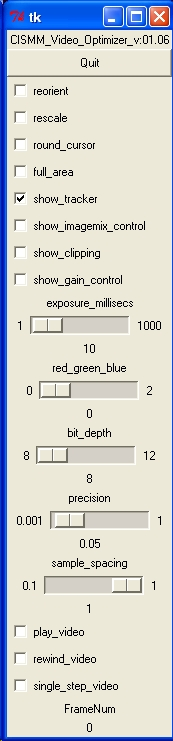
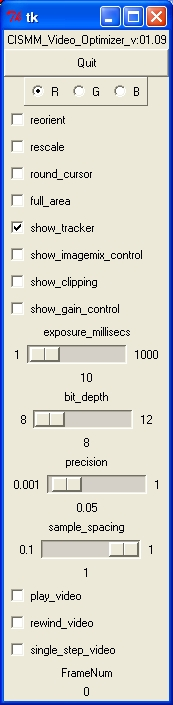
2005-12-12  Russell M. Taylor II  <taylorr@cs.unc.edu>
* video_spot_tracker.cpp : Turned the RGB slider into a set of
		radiobuttons, moved the description of them into the
		Tcl file.
	* video_spot_tracker.tcl : Same.
	* cismm_video_optimizer.cpp : Same.
	* cismm_video_optimizer.tcl : Same.

diff --git a/video_spot_tracker/video_spot_tracker.html b/video_spot_tracker/video_spot_tracker.html
@@ -28,13 +28,18 @@
 
 <p><b><i>NOTE:</i></b> With Windows XP service pack 2 and with other firewall software, running the program causes a dialog box to appear asking whether to block the program; the program needs to be unblocked only if the program is to be connected to a local or remote feedback system that relies on the tracking data. This happens when the program opens the Internet port assigned to it (3883) by the Internet Domain Naming Authority to export the data through the standard VRPN protocol (<a href="http://www.vrpn.org">www.vrpn.org</a>).</p> 
 
-<h2><img src="GUI.jpg" width="161" height="806" align="right">Using the program</h2>
+<h2><img src="GUI.jpg" width="161" height="770" align="right">Using the program</h2>
 
 <p>When the program is run and a file is selected, four windows will appear. The image window that appears on the lower right contains the first image within the video file or a continually-updating image from a live camera feed. The control panel named <b><i>tk</i></b> that appears on the left when the program is run (shown here to the right) contains a number of interaction widgets that control the operation of the program. The <b><i>kernel</i></b> control panel that appears above the image window (described later) controls the type of tracking kernel being used. The <b><i>log</i></b> control panel is described later.</p>
 
 <h3>Selecting the color channel to use</h3>
 
-<p><img src="red_green_blue.jpg" width="156" height="60" align="left">If the video file (or video camera) contains different data sets in the red, green, and blue channels then you will need to select the one you want to view. By default, the red channel (channel 0) is selected. To select a different channel, click on the &quot;0&quot; beneath the <i><b>red_green_blue </b></i>slider and type its number into the dialog box that appears. Enter 1 for green and 2 for blue.  The video window should change to display the selected channel.</p>
+<p>If the video file (or video camera) contains different data sets in the red, 
+  green, and blue channels then you will need to select the one you want to view. 
+  By default, the red channel <i><b>R</b></i> is selected. To select a different 
+  channel, click on <i><b>G</b></i> for green or <i><b>B</b></i> for blue. The 
+  video window should change to display the selected channel.</p>
+<h3></h3>
 
 <h3>Selecting the Image bit depth</h3>
 

diff --git a/cismm_video_optimizer/cismm_video_optimizer.html b/cismm_video_optimizer/cismm_video_optimizer.html
@@ -20,13 +20,17 @@
 
 <p>The program is run by dragging a video file or image file onto the desktop icon that was created when the program was installed. To select a stack of image files that are numbered consecutively, drag any one of the files onto the icon.  It can also be run by selecting one of the camera-specific shortcuts from <i><b>Start Menu/All Programs/NSRG/CISMM Video Optimizer v01.09</b></i>. If you run the program directly by double-clicking on the icon, it will ask for a video or image file (AVI, TIF, or BMP) that it should open.</p> 
 
-<h2><img src="GUI.jpg" width="173" height="741" align="right">Using the program</h2>
+<h2><img src="GUI.jpg" width="173" height="705" align="right">Using the program</h2>
 
 <p>When the program is run and a file is selected, four windows will appear. The image window that appears on the lower right contains the first image within the video file or a continually-updating image from a live camera feed. The control panel named <b><i>tk</i></b> that appears on the left when the program is run (shown here to the right) contains a number of interaction widgets that control the operation of the program. The <b><i>kernel</i></b> control panel that appears above the image window (described later) controls the type of tracking kernel being used. The <b><i>log</i></b> control panel is described later.</p> 
 
 <h3>Selecting the color channel to use</h3>
 
-<p><img src="red_green_blue.jpg" width="156" height="60" align="left">If the video file (or video camera) contains different data sets in the red, green, and blue channels then you will need to select the one you want to view. By default, the red channel (channel 0) is selected. To select a different channel, click on the &quot;0&quot; beneath the <i><b>red_green_blue </b></i>slider and type its number into the dialog box that appears. Enter 1 for green and 2 for blue.  The video window should change to display the selected channel.</p> 
+<p>If the video file (or video camera) contains different data sets in the red, 
+  green, and blue channels then you will need to select the one you want to view. 
+  By default, the red channel <i><b>R</b></i> is selected. To select a different 
+  channel, click on <i><b>G</b></i> for green or <i><b>B</b></i> for blue. The 
+  video window should change to display the selected channel.</p> 
 
 <h3>Selecting the image bit depth</h3>
 

diff --git a/cismm_video_optimizer.cpp b/cismm_video_optimizer.cpp
@@ -220,7 +220,7 @@ Tclvar_float_with_scale	*g_maxY;
 Tclvar_float_with_scale	g_exposure("exposure_millisecs", "", 1, 1000, 10);
 Tclvar_int_with_button	g_sixteenbits("sixteenbit_log",NULL,1);
 Tclvar_int_with_button	g_log_pointspread("pointspread_log",NULL,0);
-Tclvar_float_with_scale	g_colorIndex("red_green_blue", "", 0, 2, 0);
+Tclvar_float_with_scale	g_colorIndex("red_green_blue", NULL, 0, 2, 0);
 Tclvar_float_with_scale	g_bitdepth("bit_depth", "", 8, 12, 8);
 Tclvar_float_with_scale g_precision("precision", "", 0.001, 1.0, 0.05, rebuild_trackers);
 Tclvar_float_with_scale g_sampleSpacing("sample_spacing", "", 0.1, 1.0, 1.0, rebuild_trackers);

diff --git a/video_spot_tracker.cpp b/video_spot_tracker.cpp
@@ -249,7 +249,7 @@ Tclvar_float_with_scale	*g_maxX;
 Tclvar_float_with_scale	*g_minY;
 Tclvar_float_with_scale	*g_maxY;
 Tclvar_float_with_scale	g_exposure("exposure_millisecs", "", 1, 1000, 10);
-Tclvar_float_with_scale	g_colorIndex("red_green_blue", "", 0, 2, 0);
+Tclvar_float_with_scale	g_colorIndex("red_green_blue", NULL, 0, 2, 0);
 Tclvar_float_with_scale	g_bitdepth("bit_depth", "", 8, 12, 8);
 Tclvar_float_with_scale g_precision("precision", "", 0.001, 1.0, 0.05, rebuild_trackers);
 Tclvar_float_with_scale g_sampleSpacing("sample_spacing", "", 0.1, 1.0, 1.0, rebuild_trackers);
